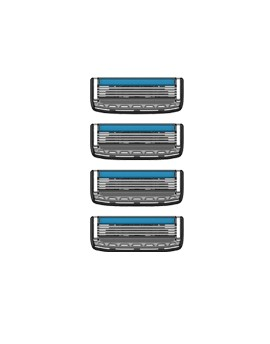
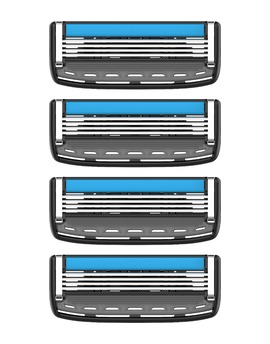
Men: correct product images, 3/4/6 order, refill-pack selector, aligned prices/buttons

diff --git a/men.html b/men.html
@@ -62,16 +62,25 @@
     <div class="products-grid">
 
       <div class="product-card">
-        <img src="images/pace-6-pro.jpg" alt="PACE 6 PRO">
+        <img src="images/pace-3-plus.jpg" alt="PACE 3 PLUS">
         <div class="product-card-body">
-          <h3>PACE 6 PRO</h3>
-          <p>The six blade razor system with safety trimmer give you exceptional precision.</p>
+          <h3>PACE 3 PLUS</h3>
+          <p>Perfect for daily shaving – close, clean and smooth every time.</p>
           <ul>
             <li>1 Handle</li>
-            <li>1 Refill cartridge</li>
+            <li>2 Refill cartridges</li>
           </ul>
-          <div class="product-price">$12.99</div>
-          <a href="https://buy.stripe.com/test_fZueVedlE9Sj5Wt3VPdjO08" class="btn btn-primary" style="font-size:12px; padding:10px 20px;" target="_blank" rel="noopener">Buy Now</a>
+          <div class="card-foot">
+            <label class="opt-label" for="opt-p3">Add refill packs</label>
+            <select class="opt-select" id="opt-p3">
+              <option data-price="$7.99"  value="https://buy.stripe.com/test_4gM00k3L49SjdoV3VPdjO0a" selected>None</option>
+              <option data-price="$17.99" value="https://buy.stripe.com/test_fZu4gA81k3tV5Wt8c5djO0b">4 Refills</option>
+              <option data-price="$45.99" value="https://buy.stripe.com/test_eVqeVe2H01lNbgN9g9djO0c">16 Refills – save 5%</option>
+              <option data-price="$61.99" value="https://buy.stripe.com/test_eVqaEYchAaWnacJ2RLdjO0d">24 Refills – save 10%</option>
+            </select>
+            <div class="product-price">$7.99</div>
+            <a href="https://buy.stripe.com/test_4gM00k3L49SjdoV3VPdjO0a" class="btn btn-primary buy-btn" target="_blank" rel="noopener">Buy Now</a>
+          </div>
         </div>
       </div>
 
@@ -84,22 +93,40 @@
             <li>1 Handle</li>
             <li>1 Refill cartridge</li>
           </ul>
-          <div class="product-price">$8.99</div>
-          <a href="https://buy.stripe.com/test_dRm00kepIe8zbgN1NHdjO02" class="btn btn-primary" style="font-size:12px; padding:10px 20px;" target="_blank" rel="noopener">Buy Now</a>
+          <div class="card-foot">
+            <label class="opt-label" for="opt-p4">Add refill packs</label>
+            <select class="opt-select" id="opt-p4">
+              <option data-price="$8.99"  value="https://buy.stripe.com/test_9B64gAepI3tVgB7eAtdjO0e" selected>None</option>
+              <option data-price="$21.99" value="https://buy.stripe.com/test_28E7sMbdwc0r70xakddjO0f">4 Refills</option>
+              <option data-price="$58.35" value="https://buy.stripe.com/test_14A7sMa9sggH1GdcsldjO0g">16 Refills – save 5%</option>
+              <option data-price="$79.15" value="https://buy.stripe.com/test_14AbJ2bdw2pR1Gd0JDdjO0h">24 Refills – save 10%</option>
+            </select>
+            <div class="product-price">$8.99</div>
+            <a href="https://buy.stripe.com/test_9B64gAepI3tVgB7eAtdjO0e" class="btn btn-primary buy-btn" target="_blank" rel="noopener">Buy Now</a>
+          </div>
         </div>
       </div>
 
       <div class="product-card">
-        <img src="images/pace-3-plus.jpg" alt="PACE 3 PLUS">
+        <img src="images/pace-6-pro.jpg" alt="PACE 6 PRO">
         <div class="product-card-body">
-          <h3>PACE 3 PLUS</h3>
-          <p>Perfect for daily shaving – close, clean and smooth every time.</p>
+          <h3>PACE 6 PRO</h3>
+          <p>The six blade razor system with safety trimmer give you exceptional precision.</p>
           <ul>
             <li>1 Handle</li>
-            <li>2 Refill cartridges</li>
+            <li>1 Refill cartridge</li>
           </ul>
-          <div class="product-price">$7.99</div>
-          <a href="https://buy.stripe.com/test_8x2aEY0ySfcD70x2RLdjO09" class="btn btn-primary" style="font-size:12px; padding:10px 20px;" target="_blank" rel="noopener">Buy Now</a>
+          <div class="card-foot">
+            <label class="opt-label" for="opt-p6">Add refill packs</label>
+            <select class="opt-select" id="opt-p6">
+              <option data-price="$12.99"  value="https://buy.stripe.com/test_28EdRaepI2pR2Kh3VPdjO0i" selected>None</option>
+              <option data-price="$31.99"  value="https://buy.stripe.com/test_9B64gAftM0hJdoV2RLdjO0j">4 Refills</option>
+              <option data-price="$85.15"  value="https://buy.stripe.com/test_14A8wQ3L45C3doV781djO0k">16 Refills – save 5%</option>
+              <option data-price="$115.55" value="https://buy.stripe.com/test_5kQ5kE2H02pR0C9eAtdjO0l">24 Refills – save 10%</option>
+            </select>
+            <div class="product-price">$12.99</div>
+            <a href="https://buy.stripe.com/test_28EdRaepI2pR2Kh3VPdjO0i" class="btn btn-primary buy-btn" target="_blank" rel="noopener">Buy Now</a>
+          </div>
         </div>
       </div>
 
@@ -111,12 +138,14 @@
     <div class="products-grid">
 
       <div class="product-card">
-        <img src="images/pace-6-pro-cart-4.jpg" alt="PACE 6 PRO refill cartridges x 4">
+        <img src="images/pace-3-plus-cart-4.jpg" alt="PACE 3 PLUS refill cartridges x 4">
         <div class="product-card-body">
-          <h3>PACE 6 PRO refill cartridges x 4</h3>
+          <h3>PACE 3 PLUS refill cartridges x 4</h3>
           <ul><li>4 Refill cartridges</li></ul>
-          <div class="product-price">$18.99</div>
-          <a href="https://buy.stripe.com/test_3cIbJ2a9s6G7gB79g9djO06" class="btn btn-primary" style="font-size:12px; padding:10px 20px;" target="_blank" rel="noopener">Buy Now</a>
+          <div class="card-foot">
+            <div class="product-price">$9.99</div>
+            <a href="https://buy.stripe.com/test_cNi8wQ4P84xZesZcsldjO04" class="btn btn-primary" target="_blank" rel="noopener">Buy Now</a>
+          </div>
         </div>
       </div>
 
@@ -125,18 +154,22 @@
         <div class="product-card-body">
           <h3>PACE 4 PRO refill cartridges x 4</h3>
           <ul><li>4 Refill cartridges</li></ul>
-          <div class="product-price">$12.99</div>
-          <a href="https://buy.stripe.com/test_8x25kE4P87Kb84BcsldjO03" class="btn btn-primary" style="font-size:12px; padding:10px 20px;" target="_blank" rel="noopener">Buy Now</a>
+          <div class="card-foot">
+            <div class="product-price">$12.99</div>
+            <a href="https://buy.stripe.com/test_8x25kE4P87Kb84BcsldjO03" class="btn btn-primary" target="_blank" rel="noopener">Buy Now</a>
+          </div>
         </div>
       </div>
 
       <div class="product-card">
-        <img src="images/pace-5-pro-cart-4.jpg" alt="PACE 3 PLUS refill cartridges x 4">
+        <img src="images/pace-6-pro-cart-4.jpg" alt="PACE 6 PRO refill cartridges x 4">
         <div class="product-card-body">
-          <h3>PACE 3 PLUS refill cartridges x 4</h3>
+          <h3>PACE 6 PRO refill cartridges x 4</h3>
           <ul><li>4 Refill cartridges</li></ul>
-          <div class="product-price">$9.99</div>
-          <a href="https://buy.stripe.com/test_cNi8wQ4P84xZesZcsldjO04" class="btn btn-primary" style="font-size:12px; padding:10px 20px;" target="_blank" rel="noopener">Buy Now</a>
+          <div class="card-foot">
+            <div class="product-price">$18.99</div>
+            <a href="https://buy.stripe.com/test_3cIbJ2a9s6G7gB79g9djO06" class="btn btn-primary" target="_blank" rel="noopener">Buy Now</a>
+          </div>
         </div>
       </div>
 
@@ -211,6 +244,18 @@
     </div>
   </div>
 </footer>
+
+<script>
+// refill-pack selector: swap the displayed price and the Stripe link together
+document.querySelectorAll('.opt-select').forEach(function (sel) {
+  sel.addEventListener('change', function () {
+    var foot = sel.closest('.card-foot');
+    var opt  = sel.options[sel.selectedIndex];
+    foot.querySelector('.product-price').textContent = opt.dataset.price;
+    foot.querySelector('.buy-btn').href = opt.value;
+  });
+});
+</script>
 
 </body>
 </html>

diff --git a/css/style.css b/css/style.css
@@ -276,7 +276,7 @@ header {
 /* ─── Product cards ─── */
 .products-grid {
   display: grid;
-  grid-template-columns: repeat(auto-fill, minmax(260px, 1fr));
+  grid-template-columns: repeat(auto-fit, minmax(260px, 1fr));
   gap: 32px;
   margin-top: 40px;
 }
@@ -285,18 +285,57 @@ header {
   border: 1px solid #e8e8e8;
   border-radius: 8px;
   overflow: hidden;
+  display: flex;
+  flex-direction: column;
   transition: box-shadow 0.2s, transform 0.2s;
 }
 .product-card:hover {
   box-shadow: 0 8px 32px rgba(0,0,0,0.10);
   transform: translateY(-4px);
 }
+/* contain, not cover — the whole razor must be visible, as on the original */
 .product-card img {
   width: 100%;
-  height: 220px;
-  object-fit: cover;
+  aspect-ratio: 270 / 344;
+  height: auto;
+  object-fit: contain;
+  background: var(--white);
+  padding: 8px;
 }
-.product-card-body { padding: 20px; }
+.product-card-body {
+  padding: 20px;
+  display: flex;
+  flex-direction: column;
+  flex: 1;
+}
+/* pushes price + options + button to the card bottom so they line up across a row */
+.card-foot { margin-top: auto; }
+.product-card .btn {
+  display: block;
+  width: 100%;
+  text-align: center;
+  font-size: 12px;
+  padding: 12px 20px;
+}
+.opt-label {
+  display: block;
+  font-size: 11px;
+  font-weight: 700;
+  letter-spacing: 0.08em;
+  text-transform: uppercase;
+  color: var(--steel);
+  margin-bottom: 6px;
+}
+.opt-select {
+  width: 100%;
+  padding: 10px 12px;
+  font-family: 'Montserrat', sans-serif;
+  font-size: 13px;
+  color: var(--dark);
+  background: var(--white);
+  border: 1px solid #d8d8d8;
+  border-radius: 4px;
+}
 .product-card h3 {
   font-size: 16px;
   font-weight: 700;
